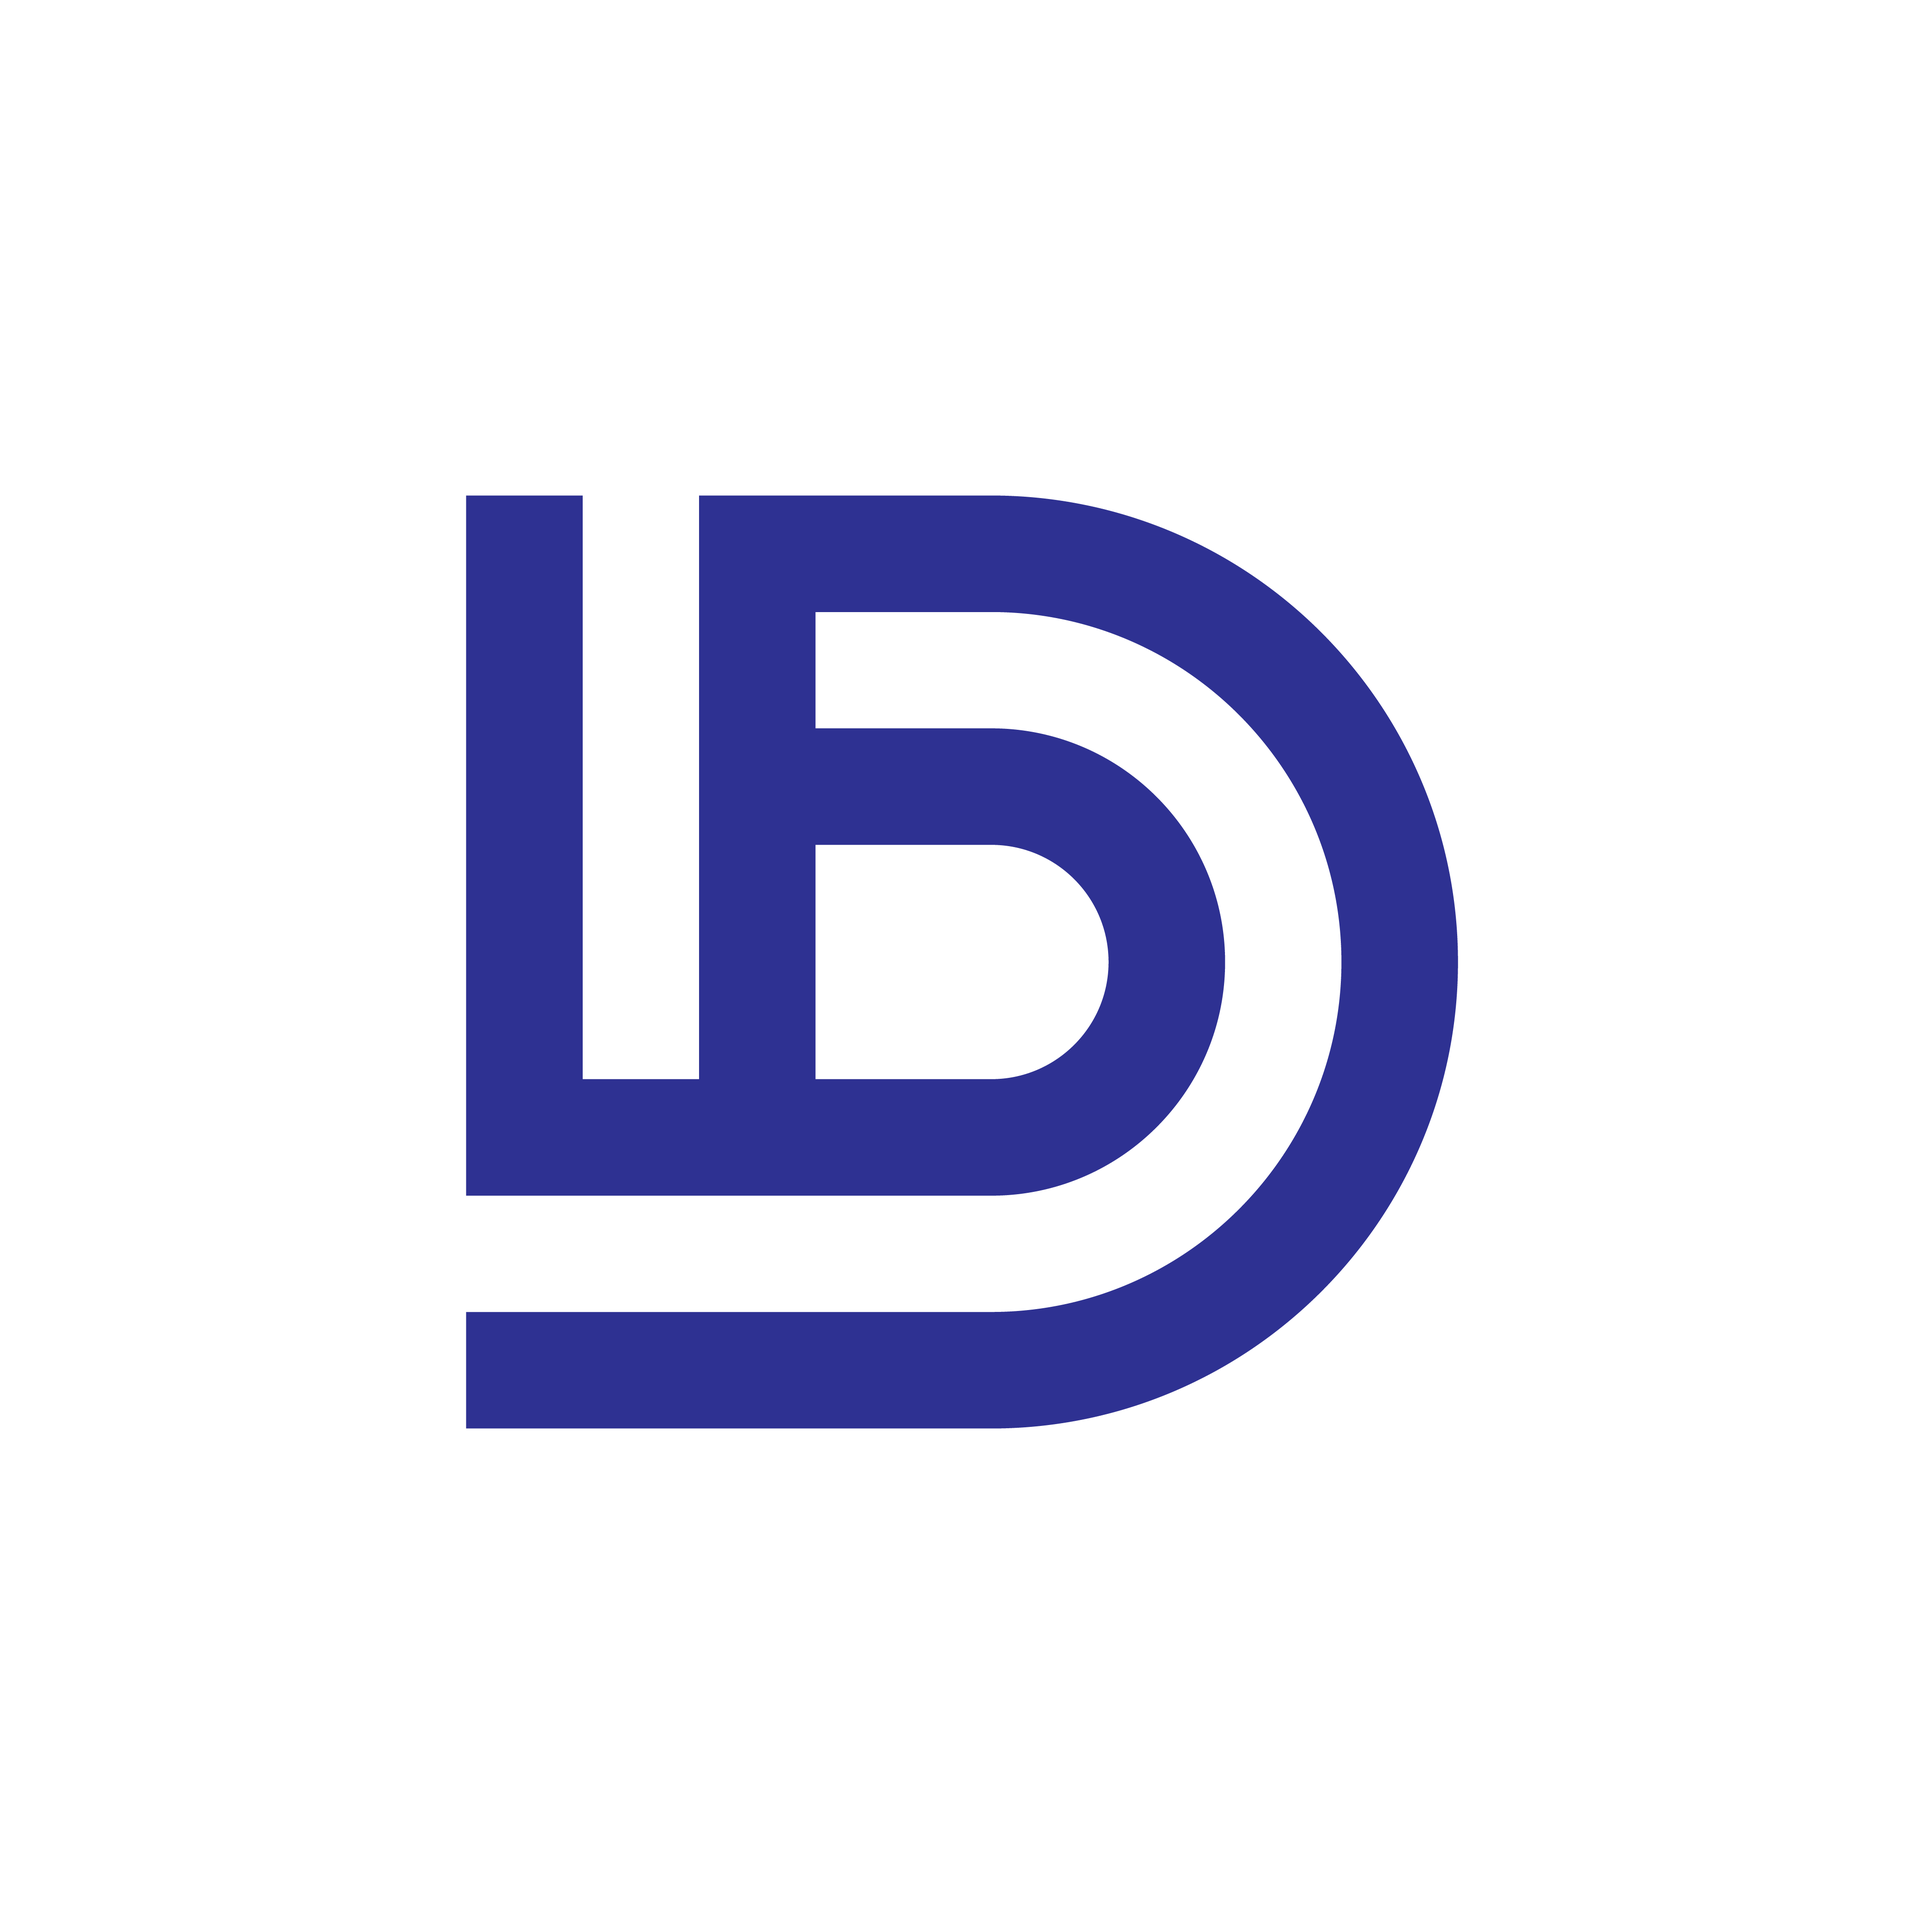
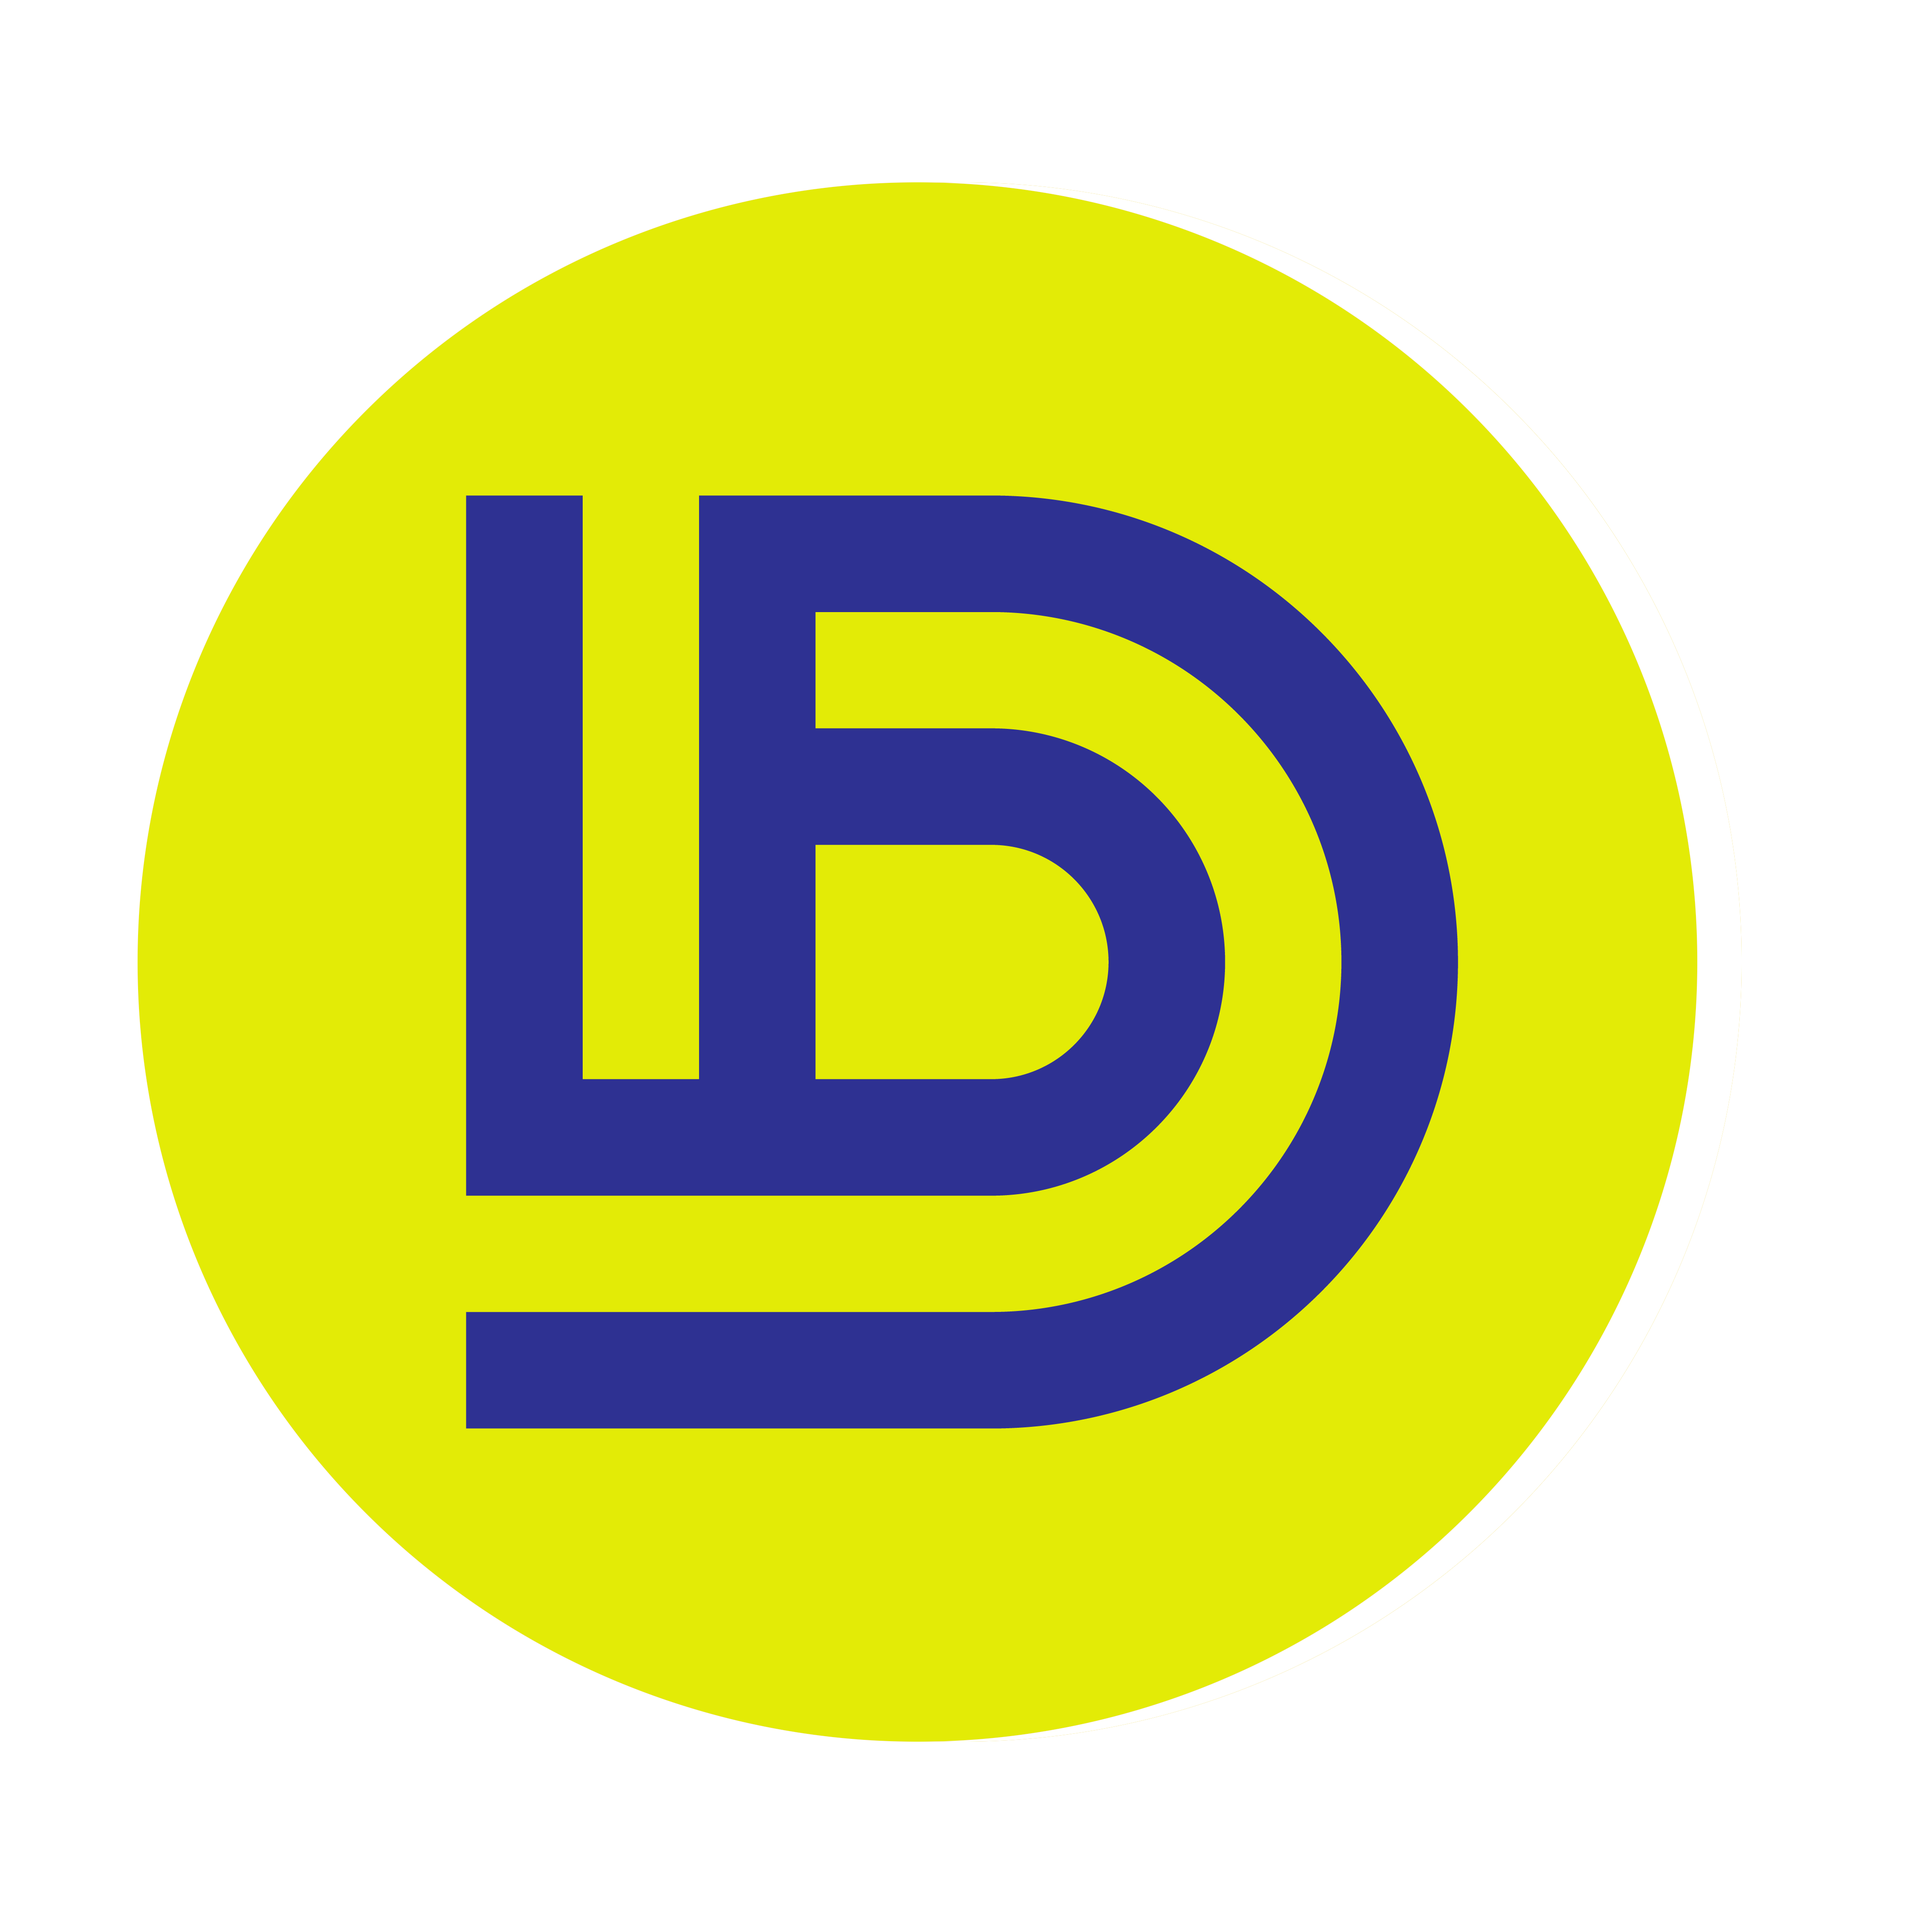
update

diff --git a/src/components/Stakelp/index.js b/src/components/Stakelp/index.js
@@ -1,5 +1,6 @@
 import * as React from 'react';
 import defragimg from '../../assets/images/defragimg.png'
+import Slpimg from '../../assets/images/SLP.png'
 import { FaQuestionCircle } from "react-icons/fa";
 import ReactTooltip from "react-tooltip";
 import "./Stakelp.css"
@@ -10,7 +11,7 @@ function stake() {
             <div className="container_contents">
                 <div className="element-a row">
                     <div className="element-a-a col-lg-4 col-sm-12">
-                        <img src={defragimg} style={{ height: '4rem', fontSize: 'xxx-large' }}></img>
+                        <img src={Slpimg} style={{ height: '4rem', fontSize: 'xxx-large' }}></img>
                         <span>SLP Staking</span>
                     </div>
                     <div className="element-a-b col-lg-8 col-sm-12 row">

diff --git a/src/components/reward_a/reward_a.css b/src/components/reward_a/reward_a.css
@@ -48,7 +48,7 @@
 }
 
 img{
-    background-color: #3182ce;
+    /* background-color: #3182ce; */
     border-radius: 10%;
 }
 .rewards-X {
